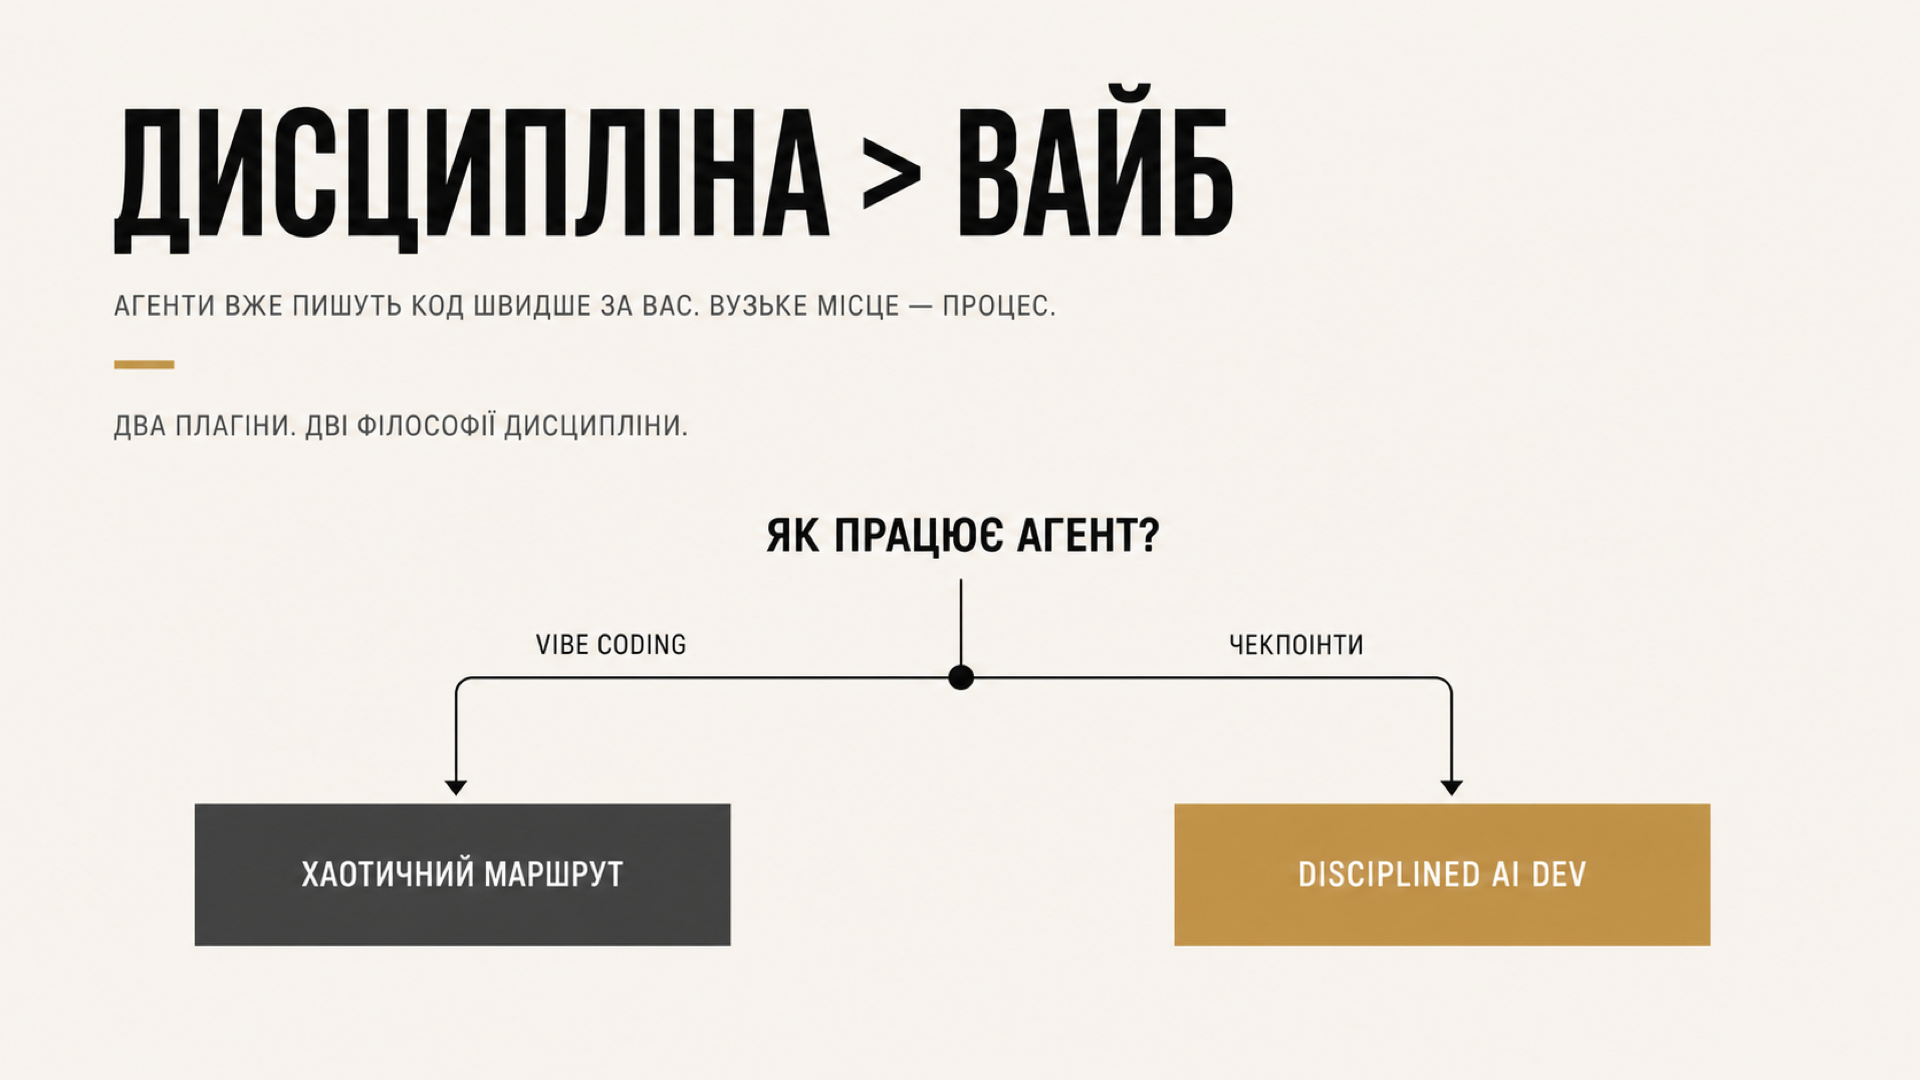
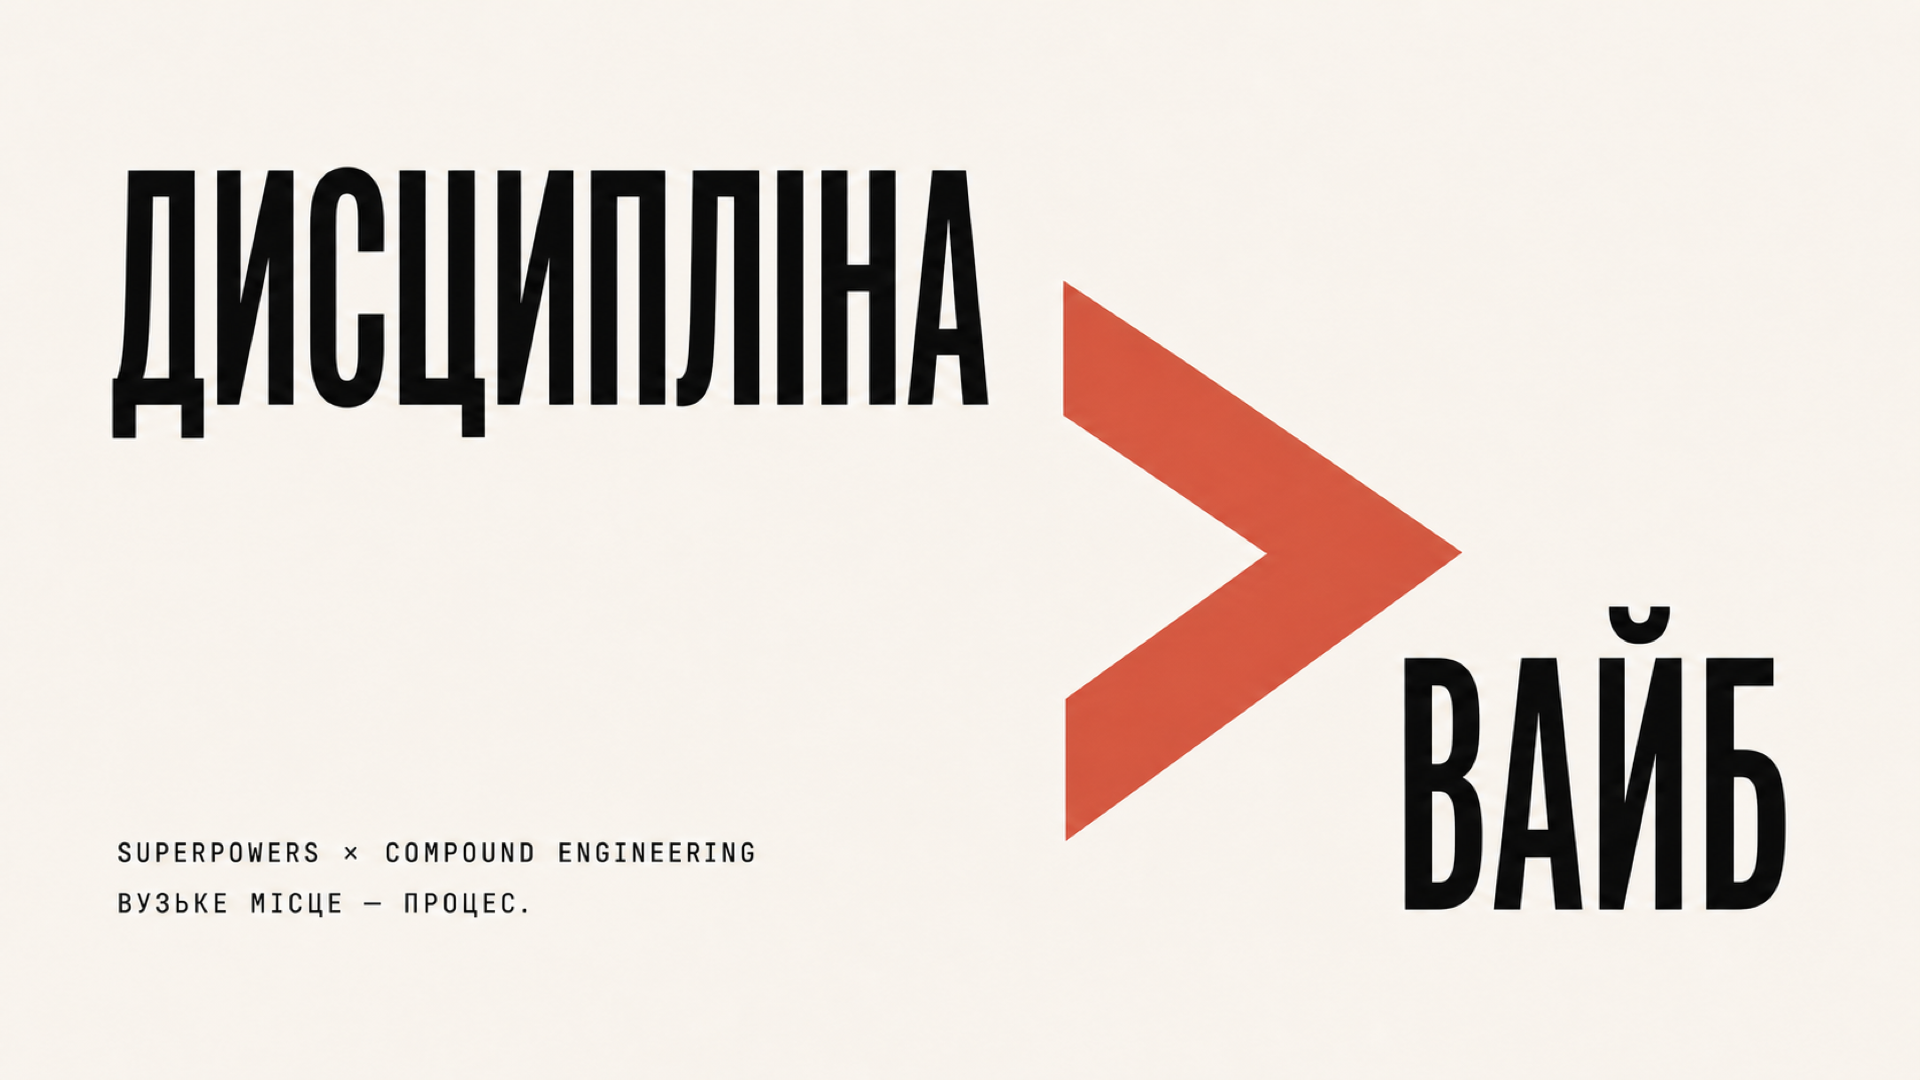
chore

Changed region(s): [[0.0312, 0.0611, 0.9375, 0.8861], [0.0625, 0.7028, 0.4062, 0.8861]]

diff --git a/CHANGELOG.md b/CHANGELOG.md
@@ -2,6 +2,8 @@
 
 ## Unreleased
 
+- Added a dedicated English `1920x1080` README Visual examples slide, selected from three GPT Image 2 candidates with persisted prompt, exact-copy review, hashes, and normalization evidence; accepted Visual DNA rasters remain unchanged.
+- Removed the Claude discovery surface for `csdl-create` and made its skill metadata, root README, and project status explicitly Codex-only; built-in Codex image generation remains the single supported route.
 - Reworked Pilot 02 Slide 08 into parallel Codex and Claude Code installation paths for Superpowers and Compound Engineering, regenerated and reviewed three exact-copy candidates, and refreshed its canonical, source snapshot, hashes, and review evidence.
 - Replaced both colloquial `тулза` occurrences on Pilot 02 Slide 07 with grammatically correct forms of `інструмент`, regenerated and reviewed three exact-copy Level C candidates, and rebuilt the canonical, preview, contact sheet, hashes, and review evidence.
 - Simplified Pilot 02 Slide 05 at user request by removing the origin and scale rows, regenerating and reviewing three exact-copy candidates, promoting the cleanest three-row comparison, and rebuilding its preview, contact sheet, hashes, and review evidence.
@@ -9,7 +11,7 @@
 - Added Pilot 02, an eight-slide Ukrainian `Superpowers vs Compound Engineering` CSDL series with a user-approved `A, A, B, A, B, A, C, A` rhythm, primary-source fact corrections, Prompt DSL v0.5 packages, 24 reviewed GPT Image 2 candidates, eight exact-copy `1920×1080` RGB canonicals, landscape previews, a centered `3840×2160` contact sheet, persisted selection/hashing evidence, and passing rubric gates; no accepted prior raster or versioned CSDL contract was changed.
 - Generalized the landscape contact-sheet builder from a fixed seven-slide layout to a centered grid adapted to any positive slide count, with focused seven-slide, eight-slide, and empty-input tests.
 - Corrected the Milestone 6 raster-baseline gate to revalidate its explicitly pinned sixty accepted paths while allowing additive later pilots; all sixty stored hashes and bytes remain unchanged.
-- Added the repository-local `csdl-create` skill under `ai/skills/` with Codex and Claude symlinks, a mandatory brief/clarification approval gate, canonical CSDL generation and selection workflow, pilot output contract, UI metadata, and a tested variable-length validator for contiguous slides, three candidates per slide, user-approved A/B/C rhythm, exact-copy prompts, canonical rasters, previews, contact sheet, review hashes, and rubric scores; the seven-slide rhythm remains a default rather than a hard limit.
+- Added the repository-local `csdl-create` skill under `ai/skills/` with a Codex discovery symlink, mandatory brief/clarification approval gate, canonical CSDL generation and selection workflow, pilot output contract, UI metadata, and a tested variable-length validator for contiguous slides, three candidates per slide, user-approved A/B/C rhythm, exact-copy prompts, canonical rasters, previews, contact sheet, review hashes, and rubric scores; the seven-slide rhythm remains a default rather than a hard limit.
 - Added an additive seven-slide English demo infographic under `docs/demo-infographic/`: translated the original five-slide narrative, added Recipes and human/agent contract bridges, generated and reviewed three candidates per slide, selected seven `1920×1080` RGB PNG files, and assembled a `3840×2160` contact sheet without changing accepted raster evidence or beginning Milestone 8.
 - Started Milestone 7 with a repository-grounded publication evidence audit, observable acceptance contract, format evaluation, and D-033 additive A4-landscape architecture; the 16:9 presentation master remains unchanged.
 - Added the bilingual 32-page Cookbook and Design Book v1.0 source package with canonical per-page Markdown, protected English terminology registry, page/source provenance map, complete fifteen-component and 23-recipe coverage, Prompt DSL v0.5 example, Analytical Mode, Accessibility, why/do/don’t guidance, and publishing preflight.

diff --git a/STATUS.md b/STATUS.md
@@ -9,11 +9,15 @@
 
 The root `README.md` now presents CSDL as a product and design language before repository operations. It introduces the problem, benefits, visual grammar, system architecture, Prompt DSL example, applied evidence, creation workflow, and status in English without changing any versioned contract or accepted raster.
 
+The README Visual examples section now uses a dedicated English `1920x1080` RGB documentation slide selected from three GPT Image 2 candidates. Its prompt, exact-copy review, selection rationale, normalization, and hashes are recorded under `docs/readme/`; accepted Visual DNA raster evidence remains unchanged.
+
+The repository-local `csdl-create` integration is Codex-only. Its canonical skill source and `.codex/skills/csdl-create` discovery symlink use built-in Codex image generation.
+
 Pilot 02 is complete under `pilots/02-superpowers-vs-compound-engineering/`. The additive eight-slide Ukrainian series compares Superpowers and Compound Engineering as orthogonal disciplines for within-task execution and between-task knowledge capture; its central comparison uses the user-approved three-row scope of value, emphasis, and risk, its culmination uses the standard Ukrainian term `інструмент`, and its closing slide now gives current installation paths for both Codex and Claude Code. It includes 24 reviewed GPT Image 2 candidates, eight exact-copy `1920×1080` RGB canonicals, eight `1280×720` previews, one centered `3840×2160` contact sheet, current primary-source fact mapping, Prompt DSL v0.5 packages, hashes, selection evidence, and passing rubric scores. The work does not alter Pilot 01, any previously accepted raster, Prompt DSL v0.5, the fifteen-component vocabulary, the 23-recipe library, or the completed Milestone 7 publication contract.
 
 An additive seven-slide English demo infographic is available under `docs/demo-infographic/`. It translates the original five-slide explanatory sequence, adds a Recipes bridge and a human/agent parity slide, and includes exact-copy prompts, 21-candidate selection evidence, seven `1920×1080` RGB PNG files, and one `3840×2160` contact sheet. It is documentation-only, does not begin Milestone 8, and does not modify any accepted raster evidence or versioned CSDL contract.
 
-Repository-local skill `csdl-create` is available from the canonical source at `ai/skills/csdl-create/` and through `.codex/skills/csdl-create` and `.claude/skills/csdl-create` symlinks. It converts user-provided slide context into an approved variable-length brief and A/B/C rhythm, three-candidate-per-slide CSDL generation workflow, complete `pilots/{ID-topic-name}` evidence package, and strict reusable pilot validation without changing the locked seven-slide standard or the broader design language.
+Repository-local skill `csdl-create` is available from the canonical source at `ai/skills/csdl-create/` and through the `.codex/skills/csdl-create` symlink. It converts user-provided slide context into an approved variable-length brief and A/B/C rhythm, three-candidate-per-slide CSDL generation workflow, complete `pilots/{ID-topic-name}` evidence package, and strict reusable pilot validation without changing the locked seven-slide standard or the broader design language.
 
 Pilot 01 was restarted and completed under the user-approved 16:9-first contract. The canonical canvas is `1920×1080`, landscape. Portrait masters, 4:5 assets, and mobile previews are not deliverables. Previous Pilot 01 rasters and review evidence are superseded and remain only in Git history.
 

diff --git a/docs/readme/visual-examples.review.md b/docs/readme/visual-examples.review.md
@@ -1,0 +1,46 @@
+# README Visual Examples — Candidate Review
+
+**Status:** Selected documentation-only asset
+**Generation route:** built-in Codex image generation, GPT Image 2
+**Selected candidate:** `visual-examples-v1.png`
+**Canonical output:** `docs/readme/visual-examples.png`
+
+This asset introduces the README Visual examples section. It does not replace, modify, or become accepted Visual DNA raster evidence.
+
+## Candidate review
+
+- `visual-examples-v1.png` — selected. It has the clearest left-to-right hierarchy, the strongest single-line headline, and four distinct semantic mechanisms without labels or interface chrome.
+- `visual-examples-v2.png` — rejected. Its oversized two-line headline reduces negative space, while repeated coral marks weaken the one-Signal hierarchy.
+- `visual-examples-v3.png` — rejected. Its dotted carrier lines resemble decorative coordinates and reduce the independence of the four mechanisms.
+
+## Exact-copy review
+
+All three candidates render only the approved English copy. The selected candidate reads exactly:
+
+```text
+VISUAL EXAMPLES
+The Visual DNA catalog demonstrates editorial, structural, process, and analytical families.
+```
+
+No logo, footer, category label, page number, or accidental text is visible.
+
+## Raster review
+
+| Asset | Dimensions | Mode | SHA-256 |
+|---|---:|---|---|
[4 lines of base64/hex data omitted]
+
+The selected source was resized mechanically to `1920x1080` with `sips`. No crop, redraw, recolor, text edit, or compositional change was applied. The source-to-canonical aspect-ratio difference is below 0.1%.
+
+## Review result
+
+- exact English copy: pass;
+- full-resolution composition: pass;
+- `1280x720` presentation readability: pass;
+- CSDL identity and reference hierarchy: pass;
+- one main idea and one visual mechanism: pass;
+- semantic editorial, structural, process, and analytical examples: pass;
+- prohibited styling and decoration: absent.

diff --git a/ai/skills/csdl-create/SKILL.md b/ai/skills/csdl-create/SKILL.md
@@ -1,11 +1,11 @@
 ---
 name: csdl-create
-description: Create a complete Constructive Signal Design Language infographic slide set of any user-approved length from slide context. Use when a user asks to build, generate, translate, extend, or regenerate a CSDL infoslide series or a pilot under `pilots/{ID-topic-name}`. Analyze the material, resolve slide count, rhythm, copy, and evidence through a consolidated clarification round, generate three candidates per slide with the canonical CSDL reference hierarchy, select and validate the final 16:9 set, and persist prompts, rasters, previews, contact sheet, sources, scores, and review evidence.
+description: Create a complete Constructive Signal Design Language infographic slide set in Codex from slide context. Use when a user asks to build, generate, translate, extend, or regenerate a CSDL infoslide series or a pilot under `pilots/{ID-topic-name}`. Analyze the material, resolve slide count, rhythm, copy, and evidence through a consolidated clarification round, generate three candidates per slide with Codex image generation and the canonical CSDL reference hierarchy, select and validate the final 16:9 set, and persist prompts, rasters, previews, contact sheet, sources, scores, and review evidence.
 ---
 
 # CSDL Create
 
-Turn slide-by-slide context into a complete, reviewable CSDL pilot at `pilots/{ID-topic-name}`. Keep product interpretation and exact copy under user control; perform the mechanical generation, evaluation, promotion, and validation autonomously after approval.
+Turn slide-by-slide context into a complete, reviewable CSDL pilot at `pilots/{ID-topic-name}`. Run the workflow through Codex and its built-in image generation. Keep product interpretation and exact copy under user control; perform the mechanical generation, evaluation, promotion, and validation autonomously after approval.
 
 ## Load the contracts
 

diff --git a/README.md b/README.md
@@ -116,7 +116,7 @@ Level C remains rare. This prevents every slide from competing for attention.
 
 The Visual DNA catalog demonstrates editorial, structural, process, and analytical families:
 
-[![Twenty CSDL Visual DNA families](patterns/visual-dna-sprint-01/contact-sheets/visual-dna-01-all.png)](patterns/visual-dna-sprint-01/README.md)
+[![English CSDL Visual Examples slide](docs/readme/visual-examples.png)](patterns/visual-dna-sprint-01/README.md)
 
 The current evidence includes:
 
@@ -141,7 +141,7 @@ The current evidence includes:
 
 ## Create a CSDL presentation
 
-Use the repository-local `csdl-create` skill with Codex or Claude:
+Use the repository-local `csdl-create` skill with Codex:
 
 ```text
 $csdl-create Create a CSDL series explaining [topic] for [audience].

diff --git a/pilots/02-superpowers-vs-compound-engineering/README.md b/pilots/02-superpowers-vs-compound-engineering/README.md
@@ -4,7 +4,7 @@ Eight-slide Ukrainian CSDL presentation series comparing two process-oriented ap
 
 ## Approved sequence
 
-`A → A → B → A → B → A → C → A`
+`C → A → B → A → B → A → C → A`
 
 ## Output contract
 
